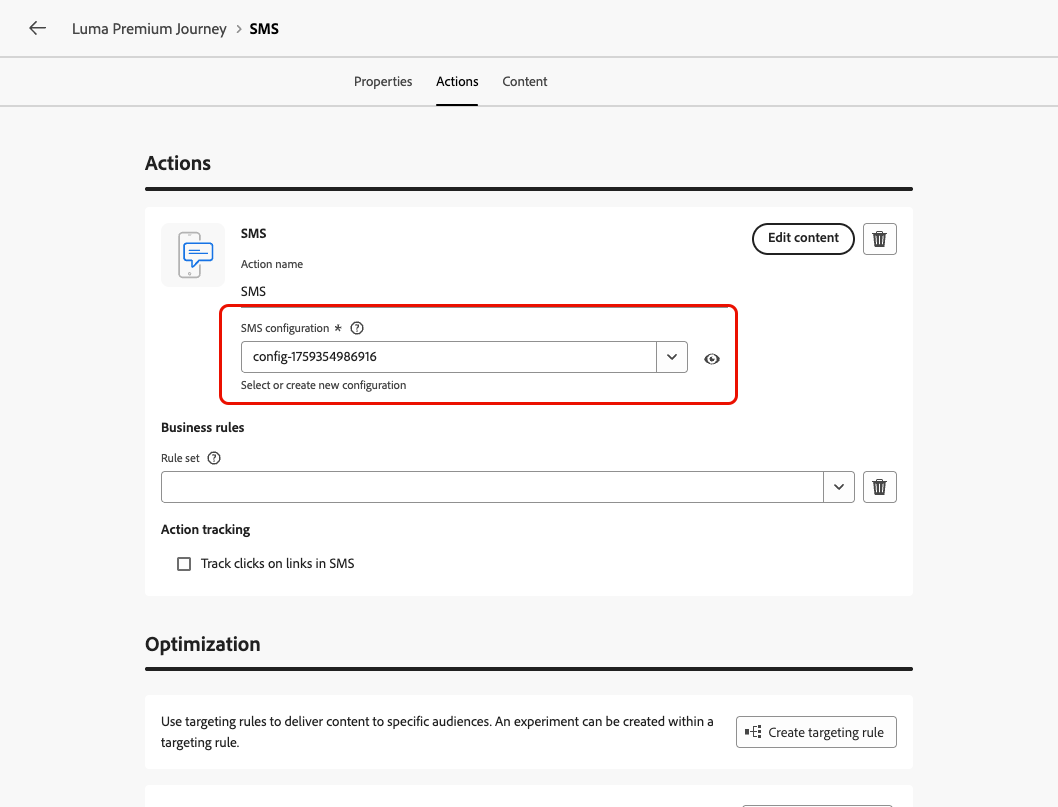
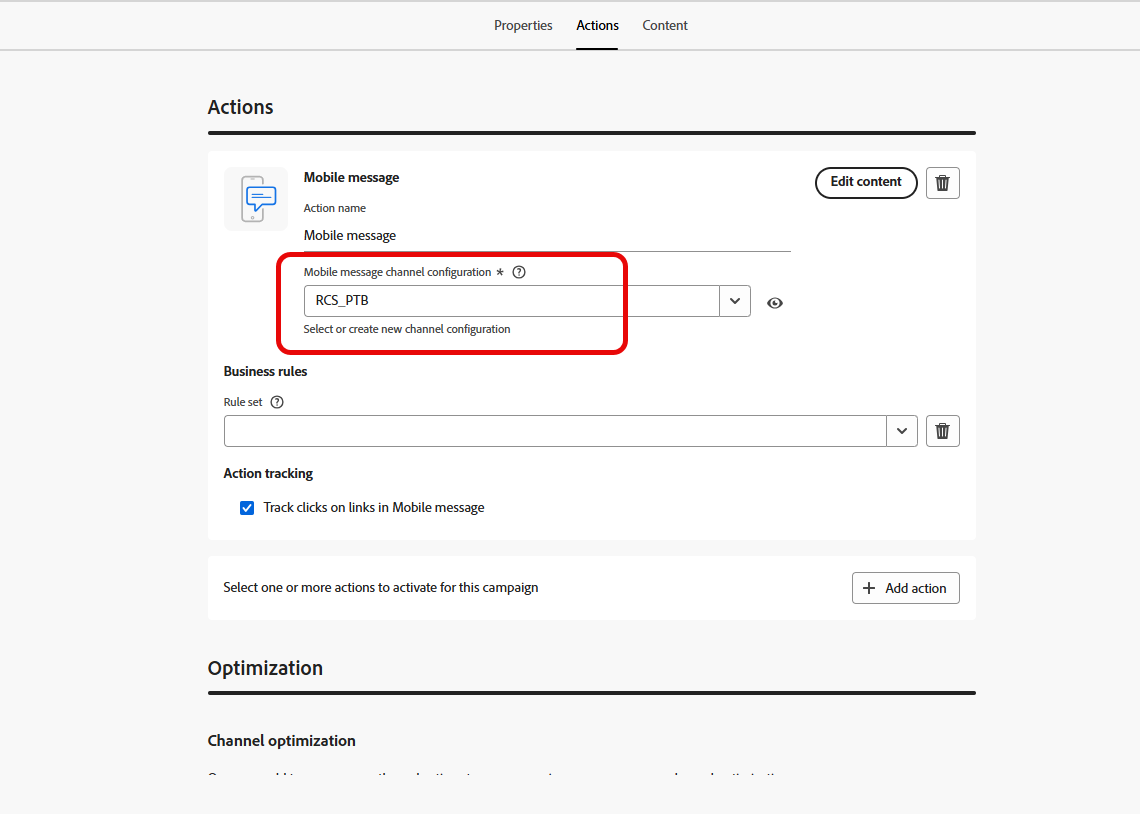
in progress

diff --git a/help/using/sms/create-sms.md b/help/using/sms/create-sms.md
@@ -40,24 +40,24 @@ topic_v2:
   - id: f4e6943a-c91a-4134-a2c7-f4f20cfff2f0
     internal-label: Privacy
 ---
-# Create a SMS/MMS/RCS message {#create-sms}
+# Create a Mobile message {#create-sms}
 
 >[!CONTEXTUALHELP]
 >id="ajo_message_sms"
 >title="Create a text message"
->abstract="To create a text message (SMS/MMS/RCS), add an SMS action in a journey or a campaign and start personalizing it with the personalization editor."
+>abstract="To create a Mobile message, add an SMS action in a journey or a campaign and start personalizing it with the personalization editor."
 
 >[!AVAILABILITY]
 >
 >RCS is not a HIPAA-Ready Service and must not be used to collect, store, or process any sensitive personal data, including permitted health data, e.g. personal health information, that your organization may otherwise be permitted to process in Journey Optimizer.
 
-You can design and send text (SMS), rich communication (RCS) and multimedia (MMS) messages with Adobe Journey Optimizer. You first need to add an SMS action in a journey or a campaign, and then define the content of the text message, as detailed below. Adobe Journey Optimizer also offers capabilities to test your text messages before sending, so that you can check the rendering, personalization attributes, and all other settings. 
+You can design and send text (SMS), rich communication (RCS) and multimedia (MMS) messages with Adobe Journey Optimizer. You first need to add an Mobile message action in a journey or a campaign, and then define the content of the text message, as detailed below. Adobe Journey Optimizer also offers capabilities to test your text messages before sending, so that you can check the rendering, personalization attributes, and all other settings. 
 
 In accordance with the industry standards and regulations, all SMS/MMS marketing messages must contain a way for the recipients to easily unsubscribe. To do this, SMS recipients can reply with opt-in and opt-out keywords. [Learn how to manage opt-out](../privacy/opt-out.md#opt-out-decision-management)
 
 ## Add a text message {#create-sms-journey-campaign}
 
-Browse the tabs below to learn how to add a text message (SMS/MMS/RCS) in a campaign or a journey.
+Browse the tabs below to learn how to add a Mobile message in a campaign or a journey.
 
 >[!BEGINTABS]
 
@@ -69,7 +69,7 @@ Browse the tabs below to learn how to add a text message (SMS/MMS/RCS) in a camp
     >
     >Legacy native channel activities (Email, Push, SMS, In-app, Web, Code-based experience, and Content Card) are deprecated as of the March 2026 release. Existing journeys using these activities continue to work without any changes—no migration is required.
 
-1. Select **[!UICONTROL SMS]** as the action type.
+1. Select **[!UICONTROL Mobile message]** as the action type and click **[!UICONTROL Add]**.
 
     ![](assets/sms_create_1.png)
 
@@ -77,11 +77,11 @@ Browse the tabs below to learn how to add a text message (SMS/MMS/RCS) in a camp
 
 1. Click the **[!UICONTROL Configure action]** button.
 
-1. You are directed to the **[!UICONTROL Actions]** tab. From there, select or create the SMS configuration to use. [Learn more](sms-configuration.md)
+1. You are directed to the **[!UICONTROL Actions]** tab. From there, select or create the Mobile message configuration to use. [Learn more](sms-configuration.md)
 
     ![](assets/sms_create_2.png)
 
-1. Additionally, you can apply capping rules to your SMS action by selecting a rule set in the **[!UICONTROL Business rules]** drop-down list. [Learn more](../conflict-prioritization/channel-capping.md)
+1. Additionally, you can apply capping rules to your Mobile message action by selecting a rule set in the **[!UICONTROL Business rules]** drop-down list. [Learn more](../conflict-prioritization/channel-capping.md)
 
 1. Select the **[!UICONTROL Edit content]** button and create your content as desired. [Learn more](#sms-content)
 
@@ -101,23 +101,23 @@ For more information on how to create, configure and publish a journey, refer to
 
 1. From the **[!UICONTROL Properties]** section, edit your Campaign's **[!UICONTROL Title]** and **[!UICONTROL Description]**.
 
-1. Click the **[!UICONTROL Select audience]** button to define the audience to target from the list of available Adobe Experience Platform audiences. [Learn more](../audience/about-audiences.md).
+1. From the **[!UICONTROL Action]** tab, click **[!UICONTROL Add action]** and choose **[!UICONTROL Mobile message]**. Then, select or create a new configuration.
 
-1. In the **[!UICONTROL Identity namespace]** field, choose the namespace to use in order to identify the individuals from the selected audience. [Learn more](../event/about-creating.md#select-the-namespace).
-
-1. In the **[!UICONTROL Actions]** section, choose the **[!UICONTROL SMS]** and select or create a new configuration.
-
-    Learn more about SMS configuration on [this page](sms-configuration.md).
+    Learn more about Mobile message configuration on [this page](sms-configuration.md).
 
     ![](assets/sms_create_3.png)
 
 1. Click **[!UICONTROL Create experiment]** to start configuring your content experiment and create treatments to measure their performance and identify the best option for your target audience. [Learn more](../content-management/content-experiment.md)
 
-1. In the **[!UICONTROL Actions tracking]** section, specify if you want to track clicks on links in your SMS message.
+1. In the **[!UICONTROL Actions tracking]** section, specify if you want to track clicks on links in your Mobile message.
 
-1. Campaigns are designed to be executed on a specific date or on a recurring frequency. Learn how to configure the **[!UICONTROL Schedule]** of your campaign in [this section](../campaigns/campaign-schedule.md#action-campaign-schedule). 
+1. From the **[!UICONTROL Audience]** tab, click the **[!UICONTROL Select audience]** button to define the audience to target from the list of available Adobe Experience Platform audiences. [Learn more](../audience/about-audiences.md).
 
-1. From the **[!UICONTROL Action triggers]** menu, choose the **[!UICONTROL Frequency]** of your SMS message:
+1. In the **[!UICONTROL Identity namespace]** field, choose the namespace to use in order to identify the individuals from the selected audience. [Learn more](../event/about-creating.md#select-the-namespace).
+
+1. From the **[!UICONTROL Schedule]** tab, you can design your Campaigns to be executed on a specific date or on a recurring frequency. Learn how to configure the **[!UICONTROL Schedule]** of your campaign in [this section](../campaigns/campaign-schedule.md#action-campaign-schedule). 
+
+1. From the **[!UICONTROL Action triggers]** menu, choose the **[!UICONTROL Frequency]** of your Mobile message:
 
     * Once
     * Daily
@@ -135,8 +135,7 @@ For more information on how to create, configure and activate a campaign, refer 
 >[!CONTEXTUALHELP]
 >id="ajo_message_sms_content"
 >title="Define your SMS content"
->abstract="Customize and personalize your text messages (SMS/MMS/RCS) by using the personalization editor to define the content and incorporate dynamic elements."
-
+>abstract="Customize and personalize your Mobile message by using the personalization editor to define the content and incorporate dynamic elements."
 
 To configure your message content, follow the steps below. Settings for MMS are detailed in [this section](#mms-content).
 
@@ -144,7 +143,7 @@ To configure your message content, follow the steps below. Settings for MMS are 
 
 1. Click the **[!UICONTROL Message]** field to open the personalization editor.
 
-    For RCS messaging with Infobip, Twilio, or other third-party providers, paste the required JSON payload into your [custom SMS configuration](sms-configuration-custom.md#api-credential).
+    For RCS messaging with Infobip, Twilio, or other third-party providers, paste the required JSON payload into your [custom Mobile message configuration](sms-configuration-custom.md#api-credential).
 
     ![](assets/sms-content.png)
 
@@ -174,17 +173,13 @@ To configure your message content, follow the steps below. Settings for MMS are 
     >
     > The lifespan of short URLs is set to 30 days. After this period, these short URLs will no longer be accessible and will display the message: `404 short-code not found`.
 
-1. Use the **[!UICONTROL Character count]** to monitor SMS length as you compose the message. It updates in real time and indicates when the content will be delivered in multiple segments.
-
-    ![](assets/sms_tracking_3.png)
-
 1. Click **[!UICONTROL Save]** and check your message in the preview. You can now test and check your message content as detailed in [this section](#sms-mms-test).
 
 ## Personalize with Decisioning {#decisioning-sms}
 
-You can personalize and optimize the content of your SMS messages with **Decisioning**. This capability allows you to use Priority Scores, Formulas, or AI Models to dynamically select and display the best content to your customers.
+You can personalize and optimize the content of your Mobile messages with **Decisioning**. This capability allows you to use Priority Scores, Formulas, or AI Models to dynamically select and display the best content to your customers.
 
-For more information on how to create and use decision policies in SMS messages, refer to [this section](../experience-decisioning/create-decision.md).
+For more information on how to create and use decision policies in Mobile messages, refer to [this section](../experience-decisioning/create-decision.md).
 
 ## Define your MMS content{#mms-content}
 
@@ -196,7 +191,7 @@ You can enhance your communication by sending Multimedia Message Service (MMS) m
 
 To create MMS content, follow these steps:
 
-1. Create a SMS as described in [this section](#create-sms-journey-campaign).
+1. Create a Mobile message as described in [this section](#create-sms-journey-campaign).
 
 1. Edit your SMS content as detailed in [this section](#sms-content).
 
@@ -225,7 +220,7 @@ Once sent, you can measure the impact of your SMS within the Campaign or Journey
 **Related topics**
 
 * [Preview, test and send your text message](send-sms.md)
-* [Configure SMS channel](sms-configuration.md)
-* [SMS/MMS reports](../reports/journey-global-report-cja-sms.md)
+* [Configure Mobile message channel](sms-configuration.md)
+* [Mobile message reports](../reports/journey-global-report-cja-sms.md)
 * [Add a message in a journey](../building-journeys/journey-action.md)
 * [Add a message in a campaign](../campaigns/create-campaign.md)

diff --git a/help/using/sms/send-sms.md b/help/using/sms/send-sms.md
@@ -1,8 +1,8 @@
 ---
 solution: Journey Optimizer
 product: journey optimizer
-title: Check and test your text messages
-description: Learn how to check and send your text messages in Journey Optimizer
+title: Check and test your Mobile messages
+description: Learn how to check and send your Mobile messages in Journey Optimizer
 feature: SMS
 topic: Content Management
 role: User
@@ -42,9 +42,9 @@ topic_v2:
   - id: e0eb8757-182f-49f3-94a4-1587d16f5094
     internal-label: Personalization
 ---
-# Check & send your text message (SMS/MMS){#send-sms}
+# Check & send your Mobile message {#send-sms}
 
-## Preview your text message {#preview-sms}
+## Preview your Mobile message {#preview-sms}
 
 Once your message content has been defined, you can use test profiles or sample input data (uploaded from a CSV/JSON file or added manually) to preview its content. If you inserted personalized content, you can check how this content is displayed in the message. 
 
@@ -56,7 +56,7 @@ Detailed information on how to preview & test content is available in the [Conte
 
 ### Character encoding and limits {#sms-character-limits}
 
-A character count is displayed when accessing **[!UICONTROL Simulate content]** menu to assist in planning and managing your SMS messages.
+A character count is displayed when accessing **[!UICONTROL Simulate content]** menu to assist in planning and managing your Mobile messages.
 
 ![](assets/sms_preview_3.png)
 
@@ -80,7 +80,7 @@ You must check alerts in the upper section of the editor. Some of them are simpl
 
 ![](assets/sms-alert-button.png)
 
-* **Warnings** refer to recommendations and best practices. For example, a warning message is displayed if your text message is empty or if character limits may be exceeded with dynamic content.
+* **Warnings** refer to recommendations and best practices. For example, a warning message is displayed if your Mobile message is empty or if character limits may be exceeded with dynamic content.
 
     **Character limits:** 160 characters per segment (GSM 7-bit), 70 for Unicode/emojis, up to 1500 characters total.
 
@@ -90,17 +90,17 @@ The alert **"The SMS text character limit has been exceeded"** may appear even w
 
 Validation calculates maximum length for all possible profile data, while simulation shows actual output for one test profile.
 
-## Send your text messages {#sms-send}
+## Send your Mobile messages {#sms-send}
 
 >[!IMPORTANT]
 >
-> If your campaign is subject to an approval policy, you will need to request approval in order to be able to send your text messages. [Learn more](../test-approve/gs-approval.md)
+> If your campaign is subject to an approval policy, you will need to request approval in order to be able to send your Mobile messages. [Learn more](../test-approve/gs-approval.md)
 
-When your text message is ready, complete the configuration of your [journey](../building-journeys/journey-gs.md) or [campaign](../campaigns/create-campaign.md) to send it.
+When your Mobile message is ready, complete the configuration of your [journey](../building-journeys/journey-gs.md) or [campaign](../campaigns/create-campaign.md) to send it.
 
 **Related topics**
 
 * [Configure SMS channel](sms-configuration.md)
 * [SMS/MMS reports](../reports/journey-global-report-cja-sms.md)
-* [Create a text message](create-sms.md)
+* [Create a Mobile message](create-sms.md)
 * [Add a message in a journey](../building-journeys/journey-action.md)

diff --git a/help/using/sms/get-started-sms.md b/help/using/sms/get-started-sms.md
@@ -1,7 +1,7 @@
 ---
 solution: Journey Optimizer
 product: journey optimizer
-title: Get started with text messages (SMS/MMS/RCS)
+title: Get started with Mobile messages
 description: Learn how to create and send text messages in Journey Optimizer
 feature: SMS
 topic: Content Management
@@ -46,19 +46,19 @@ topic_v2:
   - id: f4e6943a-c91a-4134-a2c7-f4f20cfff2f0
     internal-label: Privacy
 ---
-# Get started with text messaging {#get-started-sms}
+# Get started with Mobile messages {#get-started-sms}
 
-Use [!DNL Journey Optimizer] to send text messages (SMS/MMS/RCS) to your customers on their mobile devices. You can create, personalize, and preview messages in text format from the SMS/MMS/RCS editor.
+Use [!DNL Journey Optimizer] to send Mobile messageskk to your customers on their mobile devices. You can create, personalize, and preview messages in text format from the SMS/MMS/RCS editor.
 
-Text messages can be created and sent in a journey or in a campaign. For SMS, MMS, and RCS, use the SMS action.
+Text messages can be created and sent in a journey or in a campaign. For SMS, MMS, and RCS, use the Mobile message action.
 
-* In a **Journey**. Create a journey, add an SMS activity, and define basic settings. Then, browse to the SMS Actions pane on the right to create the content for the SMS, MMS, or RCS message. [Learn how to create a journey](../building-journeys/journey-gs.md)
+* In a **Journey**. Create a journey, add an Mobile message action, and define basic settings. Then, browse to the Mobile message Actions pane on the right to create the content for your Mobile message. [Learn how to create a journey](../building-journeys/journey-gs.md)
 
-* In a **Campaign**. Create a campaign, select SMS as your action and define basic settings. Then, edit the message content to define the SMS, MMS, or RCS message to send. Learn how to create [an action campaign](../campaigns/campaign-action.md#action-campaign-action) | [an API-triggered campaign](../campaigns/api-triggered-campaigns.md) | [an orchestrated campaign](../orchestrated/create-orchestrated-campaign.md#create)
+* In a **Campaign**. Create a campaign, select Mobile message as your action and define basic settings. Then, edit the message content to define your Mobile message to send. Learn how to create [an action campaign](../campaigns/campaign-action.md#action-campaign-action) | [an API-triggered campaign](../campaigns/api-triggered-campaigns.md) | [an orchestrated campaign](../orchestrated/create-orchestrated-campaign.md#create)
 
 >[!IMPORTANT]
 >
->If this is your first time creating text messages, make sure the SMS channel has been configured. [Learn more](sms-configuration.md)
+>If this is your first time creating Mobile messages, make sure the Mobile message channel has been configured. [Learn more](sms-configuration.md)
 
 ## Text messaging capabilities {#sms-capabilities}
 
@@ -105,7 +105,7 @@ Test your text messages before sending using test profiles and sample data. Prev
 
 **Reporting & Analytics**
 
-Track the performance of your SMS campaigns and journeys with comprehensive reporting capabilities:
+Track the performance of your Mobile message campaigns and journeys with comprehensive reporting capabilities:
 
 * [SMS campaign reports](../reports/campaign-global-report-cja-sms.md)
 * [SMS journey reports](../reports/journey-global-report-cja-sms.md)

diff --git a/help/using/sms/sms-configuration-custom.md b/help/using/sms/sms-configuration-custom.md
@@ -2,7 +2,7 @@
 solution: Journey Optimizer
 product: journey optimizer
 title: Configure your custom provider
-description: Learn how to configure your environment to send text messages with Journey Optimizer with a custom provider
+description: Learn how to configure your environment to send Mobile messages with Journey Optimizer with a custom provider
 feature: SMS, Channel Configuration
 role: Admin
 level: Intermediate
@@ -49,7 +49,7 @@ topic_v2:
 >title="Provider payload"
 >abstract="Provide the request payload to ensure the correct data is sent for processing and response generation."
 
-This feature empowers you to integrate and configure your own messaging providers, offering flexibility beyond the default options (Sinch, Twilio, and Infobip). This enables seamless authoring, delivery, reporting, and consent management for both SMS and RCS messages.
+This feature empowers you to integrate and configure your own messaging providers, offering flexibility beyond the default options (Sinch, Twilio, and Infobip). This enables seamless authoring, delivery, reporting, and consent management for Mobile messages.
 
 With custom provider configuration, you can connect third-party messaging services directly within Journey Optimizer, customize message payloads for dynamic content, and manage opt-in/opt-out preferences to ensure compliance across both SMS and RCS channels.
 
@@ -62,7 +62,7 @@ To configure your custom provider, follow the steps below:
 
 ## Create your API credential {#api-credential}
 
-To send SMS and RCS messages in Journey Optimizer using a custom provider not available out of the box by Adobe (e.g., Sinch, Infobip, Twilio), follow these steps:
+To send Mobile message in Journey Optimizer using a custom provider not available out of the box by Adobe (e.g., Sinch, Infobip, Twilio), follow these steps:
 
 1. In the left rail, navigate to **[!UICONTROL Administration]** `>` **[!UICONTROL Channels]**, select the **[!UICONTROL API Credentials]** menu under **[!UICONTROL SMS settings]**, and click the **[!UICONTROL Create new API credentials]** button.
 
@@ -86,7 +86,7 @@ To send SMS and RCS messages in Journey Optimizer using a custom provider not av
 
 1. Enable the **[!UICONTROL mTLS support]** option, which ensures that both the client and server authenticate each other before establishing a secure connection.
 
-    To use mTLS only, select **[!UICONTROL No Authentication]** from the **[!UICONTROL Auth Type]** drop-down and then enable ** [!UICONTROL mTLS support]**.
+    To use mTLS only, select **[!UICONTROL No Authentication]** from the **[!UICONTROL Auth Type]** drop-down and then enable **[!UICONTROL mTLS support]**.
 
 1. In the **[!UICONTROL Headers]** section, click **[!UICONTROL Add new parameter]** to specify the HTTP headers for the request message that will be sent to the external service.
 

diff --git a/help/using/sms/sms-subdomains.md b/help/using/sms/sms-subdomains.md
@@ -1,7 +1,7 @@
 ---
 solution: Journey Optimizer
 product: journey optimizer
-title: Configure subdomains for text messages (SMS/MMS)
+title: Configure subdomains for Mobile message
 description: Learn how to configure SMS subdomains with Journey Optimizer
 role: Admin
 feature: SMS, Channel Configuration
@@ -48,18 +48,18 @@ topic_v2:
 
 >[!CONTEXTUALHELP]
 >id="ajo_admin_subdomain_sms_header"
->title="Delegate an SMS/MMS subdomain"
->abstract="Set up your subdomain for text messages (SMS/MMS). You can use a subdomain that is already delegated to Adobe, or configure a new subdomain."
+>title="Delegate a Mobile message subdomain"
+>abstract="Set up your subdomain for Mobile messages. You can use a subdomain that is already delegated to Adobe, or configure a new subdomain."
 
 >[!CONTEXTUALHELP]
 >id="ajo_admin_subdomain_sms"
->title="Delegate an SMS/MMS subdomain"
->abstract="You must configure a subdomain to use for your text messages, as you need this subdomain to create a SMS configuration. You can use a subdomain already delegated to Adobe, or configure a new subdomain."
+>title="Delegate a Mobile message subdomain"
+>abstract="You must configure a subdomain to use for your Mobile messages, as you need this subdomain to create a SMS configuration. You can use a subdomain already delegated to Adobe, or configure a new subdomain."
 >additional-url="https://experienceleague.adobe.com/en/docs/journey-optimizer/using/channels/sms/configure-sms/sms-configuration-surface" text="Create an SMS configuration"
 
 >[!CONTEXTUALHELP]
 >id="ajo_admin_config_sms_subdomain"
->title="Select a SMS/MMS subdomain"
+>title="Select a Mobile message subdomain"
 >abstract="To be able to create a SMS configuration, make sure you have previously configured at least one SMS subdomain to pick from the Subdomain name list."
 >additional-url="https://experienceleague.adobe.com/en/docs/journey-optimizer/using/channels/sms/configure-sms/sms-configuration-surface" text="Create an SMS configuration"
 

diff --git a/help/using/sms/sms-configuration-surface.md b/help/using/sms/sms-configuration-surface.md
@@ -35,7 +35,7 @@ topic_v2:
   - id: eddd9b14-83bd-4ff4-9072-54a4a484abb7
     internal-label: Administration
 ---
-# Create a SMS/MMS/RCS configuration {#message-preset-sms}
+# Create a Mobile message configuration {#message-preset-sms}
 
 >[!CONTEXTUALHELP]
 >id="ajo_admin_surface_sms_type"
@@ -43,7 +43,7 @@ topic_v2:
 >abstract="Select the type of text messages using this configuration: Marketing for promotional messages, which require user consent, or Transactional for non-commercial messages, such as password reset."
 >additional-url="https://experienceleague.adobe.com/docs/journey-optimizer/using/privacy/consent/opt-out.html#sms-opt-out-management" text="Opt-out in marketing text messages"
 
-Once your SMS/MMS/RCS channel has been configured, you must create a channel configuration to be able to send SMS, RCS and MMS messages from **[!DNL Journey Optimizer]**. 
+Once your Mobile message channel has been configured, you must create a channel configuration to be able to send SMS, RCS and MMS messages from **[!DNL Journey Optimizer]**. 
 
 To create a channel configuration, follow these steps:
 
@@ -80,7 +80,7 @@ To create a channel configuration, follow these steps:
 
 1. Enter the **[!UICONTROL Sender number]** you want to use for your communications.
 
-1. If you want to use the URL shortening function in your SMS messages, select an item from the **[!UICONTROL Subdomain]** list. 
+1. If you want to use the URL shortening function in your SMS messages, select an item from the **[!UICONTROL Subdomain]** list.
 
     >[!NOTE]
     >
